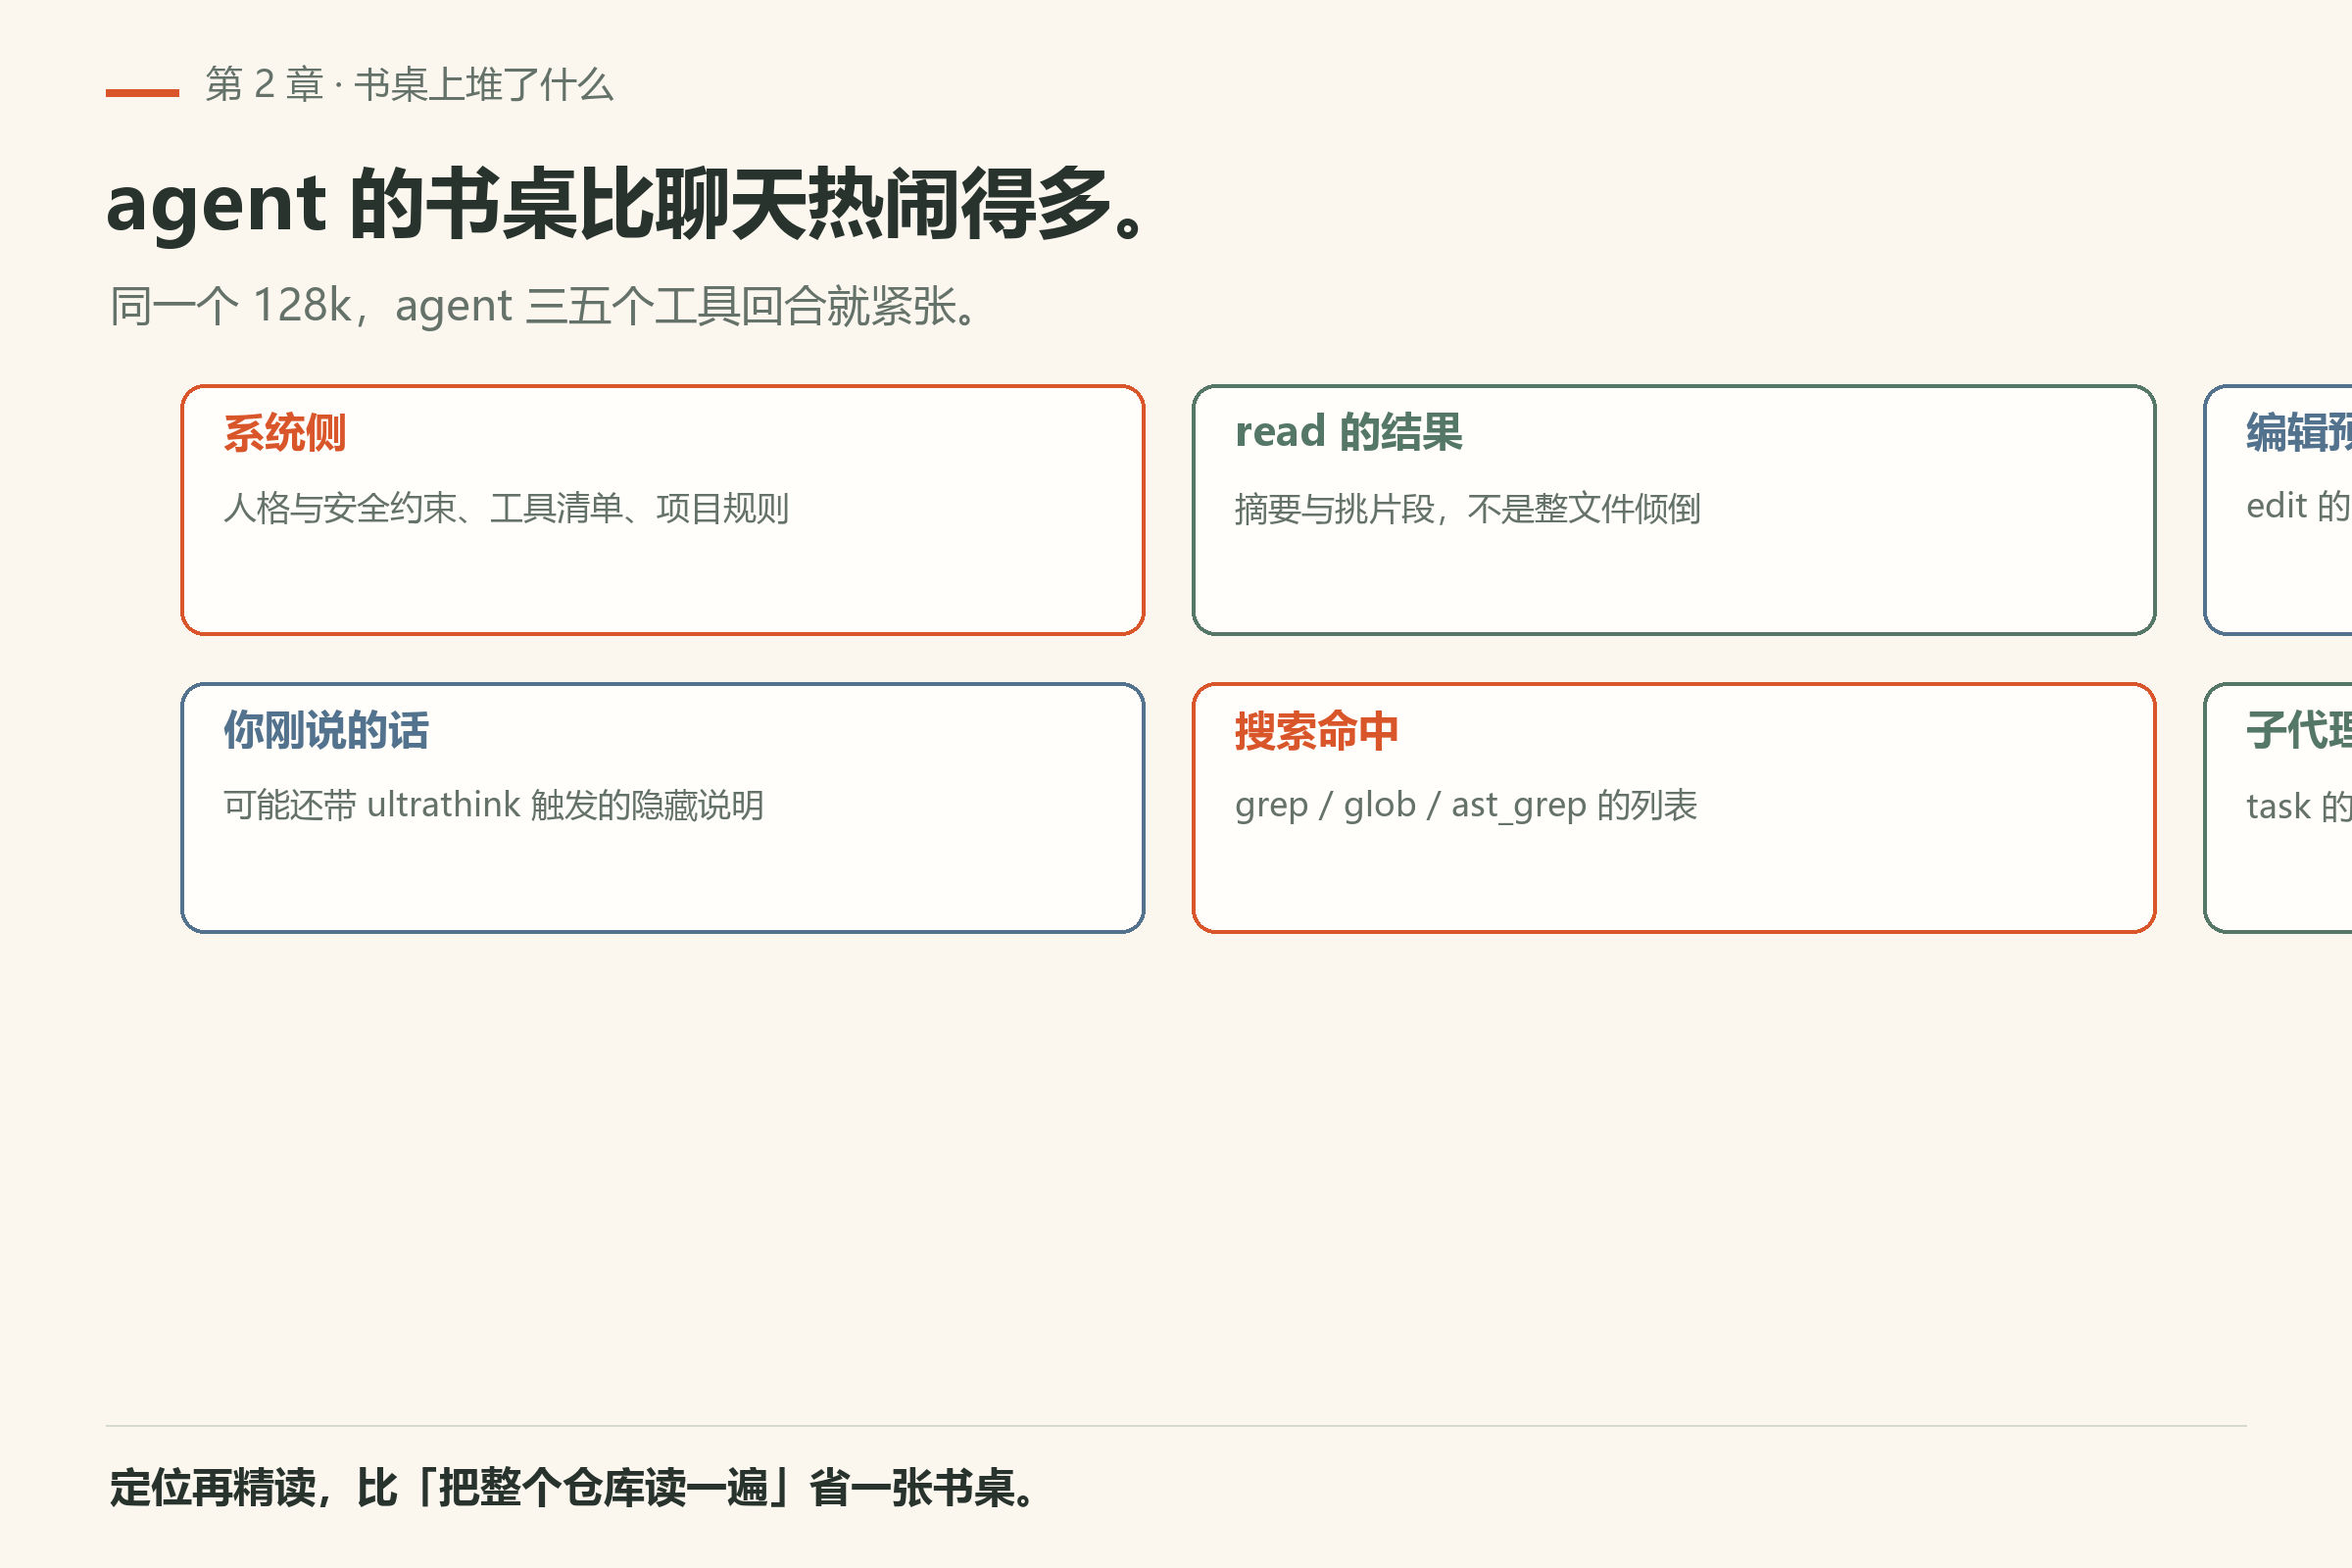
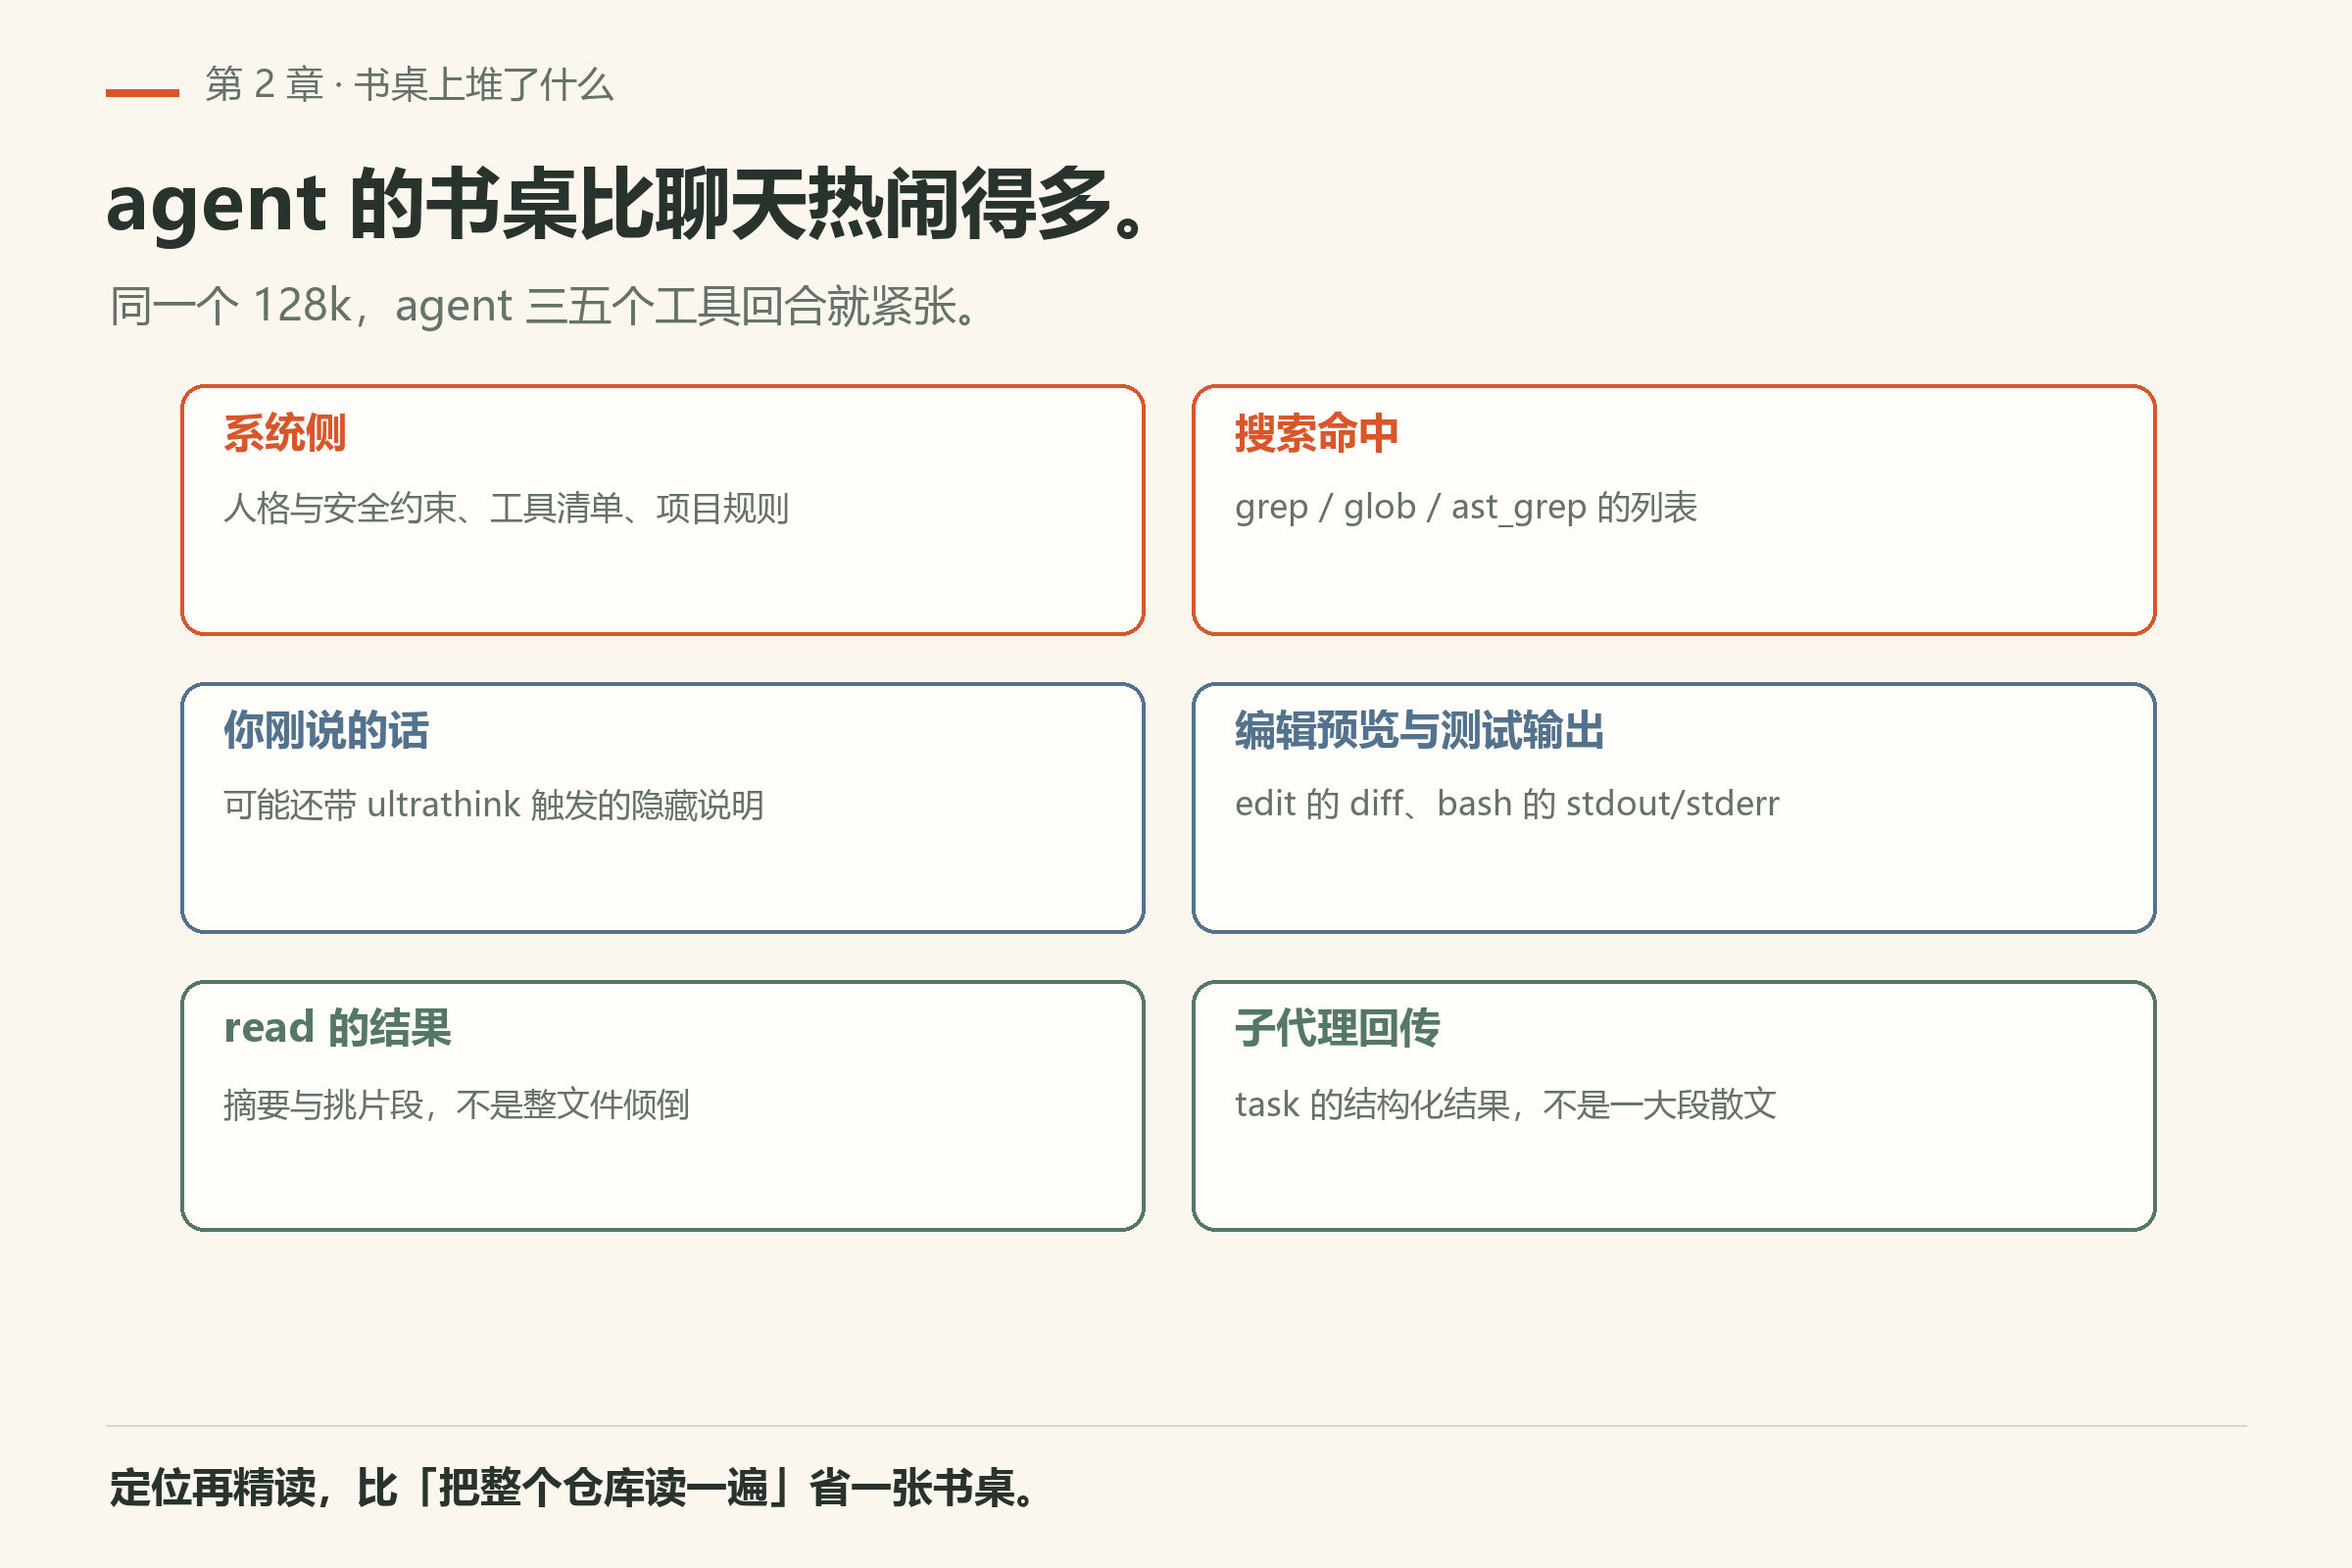
fix(omp): keep plate content inside the canvas and guard against regressions
Nine plates laid their cells out past the 1200x800 canvas: left = 92 +
column * 516 fits two columns exactly, so a third column started at
1124 and ran to 1616. The part outside the canvas is cut off, not
scaled, and nothing downstream noticed -- the JPEG is still 1200x800,
still inside the byte budget, still passes every audit. It showed up
only when sampling PDF pages: the foreword's first plate had lost half
of its right-hand column.

- Drawing.coords() now raises when a shape leaves the canvas (2px
  tolerance). Every shape goes through coords(), so one check covers
  all drawing paths.
- Eight plates move to three rows, figA-3's eight cells to four, all
  keeping the 492px card width and existing gaps.
- fig10-4-two-gates had drifted the other way: its footer text was
  reworded in an earlier plain-language batch without regenerating the
  plate. Regenerated to match the script.

Regenerating all 186 registered plates now reproduces the shipped bytes
exactly (186/186) with zero guard failures.

diff --git a/scripts/draw_omp_illustrations.py b/scripts/draw_omp_illustrations.py
@@ -60,6 +60,16 @@ class Drawing:
         self.regular, self.bold = regular, bold
 
     def coords(self, points):
+        # Anything drawn past the edge is simply cut off in the printed book,
+        # and nothing downstream notices: the JPEG is still 1200x800, still
+        # under budget, still passes every audit. Nine plates shipped with a
+        # whole third column missing before this guard existed.
+        for index, value in enumerate(points):
+            limit = 1200 if index % 2 == 0 else 800
+            if value < -2 or value > limit + 2:
+                raise ValueError(
+                    f"Shape leaves the 1200x800 canvas: {tuple(points)} — "
+                    "the part past the edge would be cut off, not shrunk")
         return tuple(round(value * self.scale) for value in points)
 
     @lru_cache(maxsize=24)
@@ -2706,7 +2716,7 @@ def registerables(picture: Drawing):
              ("自定义渲染", "界面表现层", GREEN),
              ("sendMessage 注入", "initialize 后向会话投递消息", ORANGE))
     for index, (name, detail, color) in enumerate(cards):
-        column, row = divmod(index, 2)
+        column, row = divmod(index, 3)
         left = 92 + column * 516
         top = 196 + row * 148
         picture.box((left, top, left + 492, top + 124), WHITE, color, radius=12)
@@ -2873,7 +2883,7 @@ def six_step_chain(picture: Drawing):
              ("⑤ 遮罩实验", "5 分钟 · 假密钥走一遍再删", BLUE),
              ("⑥ 架构笔记", "5 分钟 · 导出会话得 HTML", GREEN))
     for index, (title, detail, color) in enumerate(steps):
-        column, row = divmod(index, 2)
+        column, row = divmod(index, 3)
         left = 92 + column * 516
         top = 200 + row * 150
         picture.box((left, top, left + 492, top + 126), WHITE, color, radius=12)
@@ -2896,7 +2906,7 @@ def subcommand_grid(picture: Drawing):
              ("升级本体", "update --check / --plugins", ORANGE),
              ("离线计数", "toks <文件或文本>", BLUE))
     for index, (name, commands, color) in enumerate(cells):
-        column, row = divmod(index, 2)
+        column, row = divmod(index, 4)
         left = 92 + column * 516
         top = 196 + row * 118
         picture.box((left, top, left + 492, top + 96), WHITE, color, radius=10)
@@ -2993,7 +3003,7 @@ def desk_pile(picture: Drawing):
              ("编辑预览与测试输出", "edit 的 diff、bash 的 stdout/stderr", BLUE),
              ("子代理回传", "task 的结构化结果，不是一大段散文", GREEN))
     for index, (name, detail, color) in enumerate(piles):
-        column, row = divmod(index, 2)
+        column, row = divmod(index, 3)
         left = 92 + column * 516
         top = 196 + row * 152
         picture.box((left, top, left + 492, top + 128), WHITE, color, radius=12)
@@ -3013,7 +3023,7 @@ def tool_baskets(picture: Drawing):
                ("桌面与网络", "browser / computer / web_search / 门控 github", BLUE),
                ("记忆与技能", "retain / recall / reflect / learn / manage_skill", GREEN))
     for index, (name, detail, color) in enumerate(baskets):
-        column, row = divmod(index, 2)
+        column, row = divmod(index, 3)
         left = 92 + column * 516
         top = 196 + row * 148
         picture.box((left, top, left + 492, top + 124), WHITE, color, radius=12)
@@ -3354,7 +3364,7 @@ def reading_map(picture: Drawing):
              ("六 · 实战", "六个真实任务", GREEN),
              ("七 · 排障", "排错、安全、成本、读源码", ORANGE))
     for index, (name, detail, color) in enumerate(parts[:6]):
-        column, row = divmod(index, 2)
+        column, row = divmod(index, 3)
         left = 92 + column * 516
         top = 196 + row * 118
         picture.box((left, top, left + 492, top + 96), WHITE, color, radius=10)
@@ -3419,7 +3429,7 @@ def ext_acceptance(picture: Drawing):
              ("⑤ /reload-plugins", "热重载后行为可解释", BLUE),
              ("⑥ 卸载后消失", "列表里干净退出", GREEN))
     for index, (title, detail, color) in enumerate(steps):
-        column, row = divmod(index, 2)
+        column, row = divmod(index, 3)
         left = 92 + column * 516
         top = 200 + row * 132
         picture.box((left, top, left + 492, top + 108), WHITE, color, radius=12)
@@ -3442,7 +3452,7 @@ def mcp_ticket(picture: Drawing):
               ("失败时人类步骤", "指向 stderr 与 exit 码", BLUE),
               ("回滚方式", "删 disabledServers 或 PR 回滚条目", GREEN))
     for index, (name, detail, color) in enumerate(fields):
-        column, row = divmod(index, 2)
+        column, row = divmod(index, 3)
         left = 92 + column * 516
         top = 196 + row * 132
         picture.box((left, top, left + 492, top + 108), WHITE, color, radius=12)
@@ -3503,7 +3513,7 @@ def incident_pack(picture: Drawing):
              ("相关配置路径", "密钥打码", BLUE),
              ("已尝试的最小动作", "做过什么、结果如何", GREEN))
     for index, (title, detail, color) in enumerate(items):
-        column, row = divmod(index, 2)
+        column, row = divmod(index, 3)
         left = 92 + column * 516
         top = 196 + row * 124
         picture.box((left, top, left + 492, top + 100), WHITE, color, radius=10)

diff --git a/omp/overhaul/ACCEPTANCE.md b/omp/overhaul/ACCEPTANCE.md
@@ -211,7 +211,7 @@ B19 `ce8fbda`、B20 `1a3f9b8`、B21 `5051589`；
 `<p><img></p>`，题注是紧跟其后的另一个 `<em>` 段落——于是全书的图注装帧
 （铜色编号、两侧细线、`break-inside:avoid`）对它们一律无效，CSS 里的
 `.illu-photo` 规则命中零个元素。新增 `render.photo_figures()`：把
-`![图13-1 …](images/…)` 与其斜体题注合并为
+图片行（`images/` 下的 `fig13-1-….jpg` 那种）与其斜体题注合并为
 `<figure class="illu illu-photo"><div class="illu-frame"><img></div><figcaption>…`。
 只认 `图N-N`／`图A-N` 这种编号（附录用字母），README 截图等其它图片不受影响；
 题注里的 `<code>` 原样保留。构建产物核对：206 张图全部包裹、0 张漏网。
@@ -236,13 +236,29 @@ B19 `ce8fbda`、B20 `1a3f9b8`、B21 `5051589`；
 `pdf.py` 改用 `garbage=4`，并核对书签 49、链接 221、图 206、字体 11 与抽样正文
 逐项一致。最终 PDF 比改造前更小。
 
+**九张图的内容被切在画布外（装帧抽检时暴露的既有缺陷）**。按页抽检 PDF 时发现
+前言第一张图 fig0-1 右侧整列「五 · 扩展」「六 · 实战」只剩一半。根因不在样式而在
+生成脚本：`left = 92 + column * 516` 两列正好填满 1200px 画布，第三列的左缘就已经
+在 1124、右缘 1616——画布外的部分不是缩小，是直接切掉，而下游一切检查都不会察觉
+（JPEG 仍是 1200×800、仍在字节预算内、仍过全部审计）。
+
+- `Drawing.coords()` 加画布守卫：任何图元坐标越出 1200×800（容差 2px）即报错。
+  所有图元都经过 `coords()`，所以这一处覆盖全部绘制路径。
+- 受影响九张改为两列：`fig0-1-reading-map`、`fig2-4-desk-pile`、`fig3-4-tool-baskets`、
+  `fig20-5-mcp-ticket`、`fig22-4-registerables`、`fig22-5-ext-acceptance`、
+  `fig30-5-incident-pack`、`fig33-4-six-step-chain` 用三行，`figA-3-subcommand-grid`
+  八格用四行。逐张目检确认内容完整、无截断。
+- 另修一处漂移：`fig10-4-two-gates` 的页脚在早先通俗化批次里改过字、图却没重生成，
+  现已对齐脚本。
+- 回归核对：全量重生成 186 张，与书中逐位一致（186/186），守卫下 0 张报错。
+
 验证：audit_structure 33/33、audit_delivery 0 errors、tests 67 通过、
 yuyu-book tests 521 通过、`build.py --check` CHECK OK、
-`check_omp_plain.py --strict` 0 findings。
+`check_omp_plain.py --strict` 0 findings、`bookctl.py check --fast` 0 errors。
 
 | 文件 | 字节 | 页数 / 书签 | SHA-256 |
 |---|---:|---|---|
[4 lines of base64/hex data omitted]
 
-构建产物位于 `.scratch/dist-b33/`。
+构建产物位于 `.scratch/dist-b35/`。
